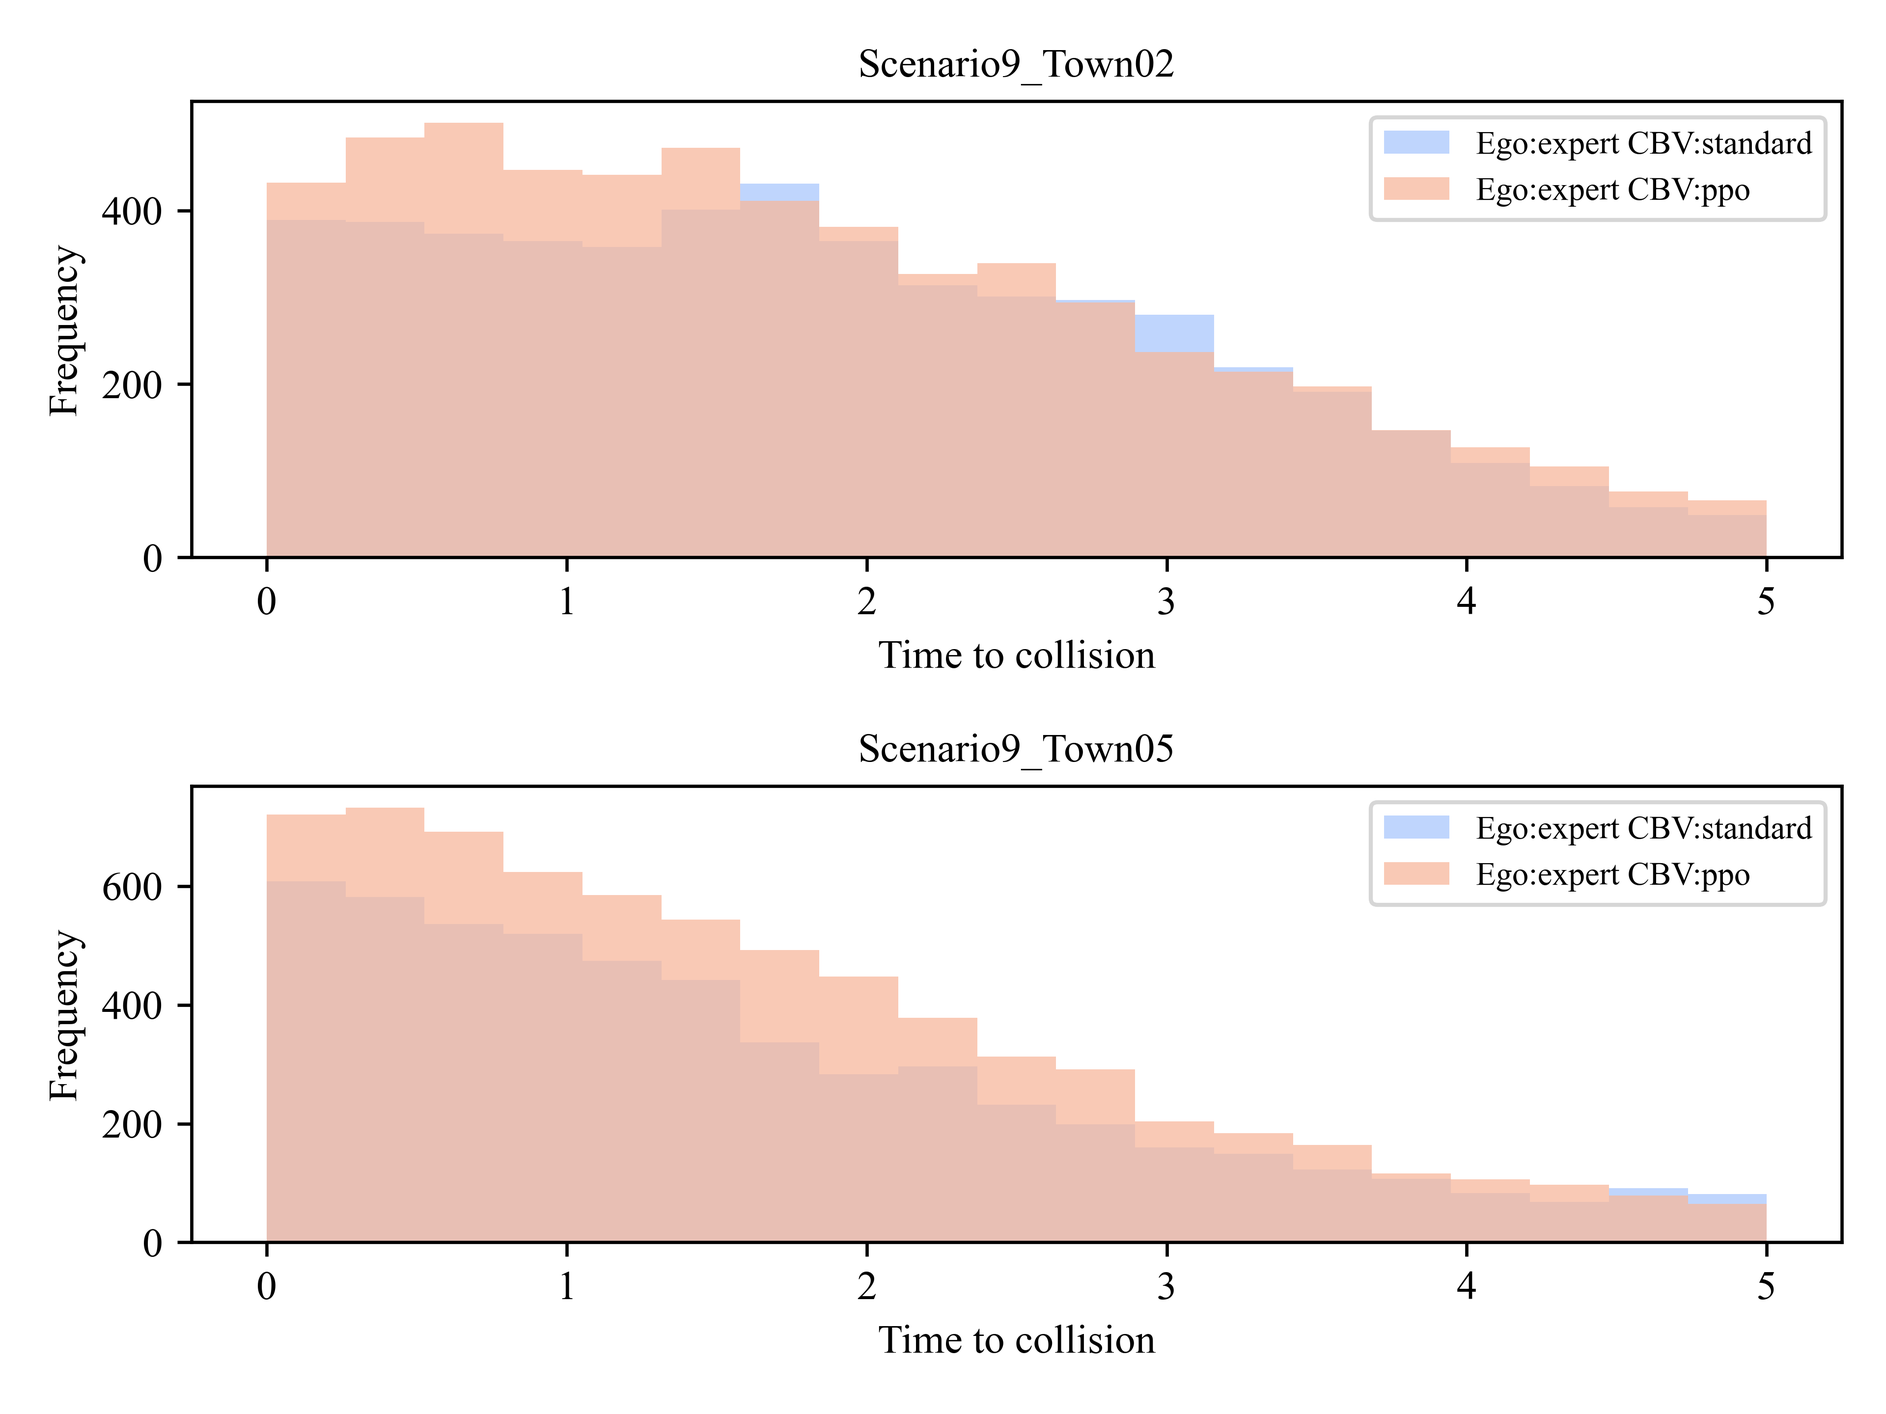
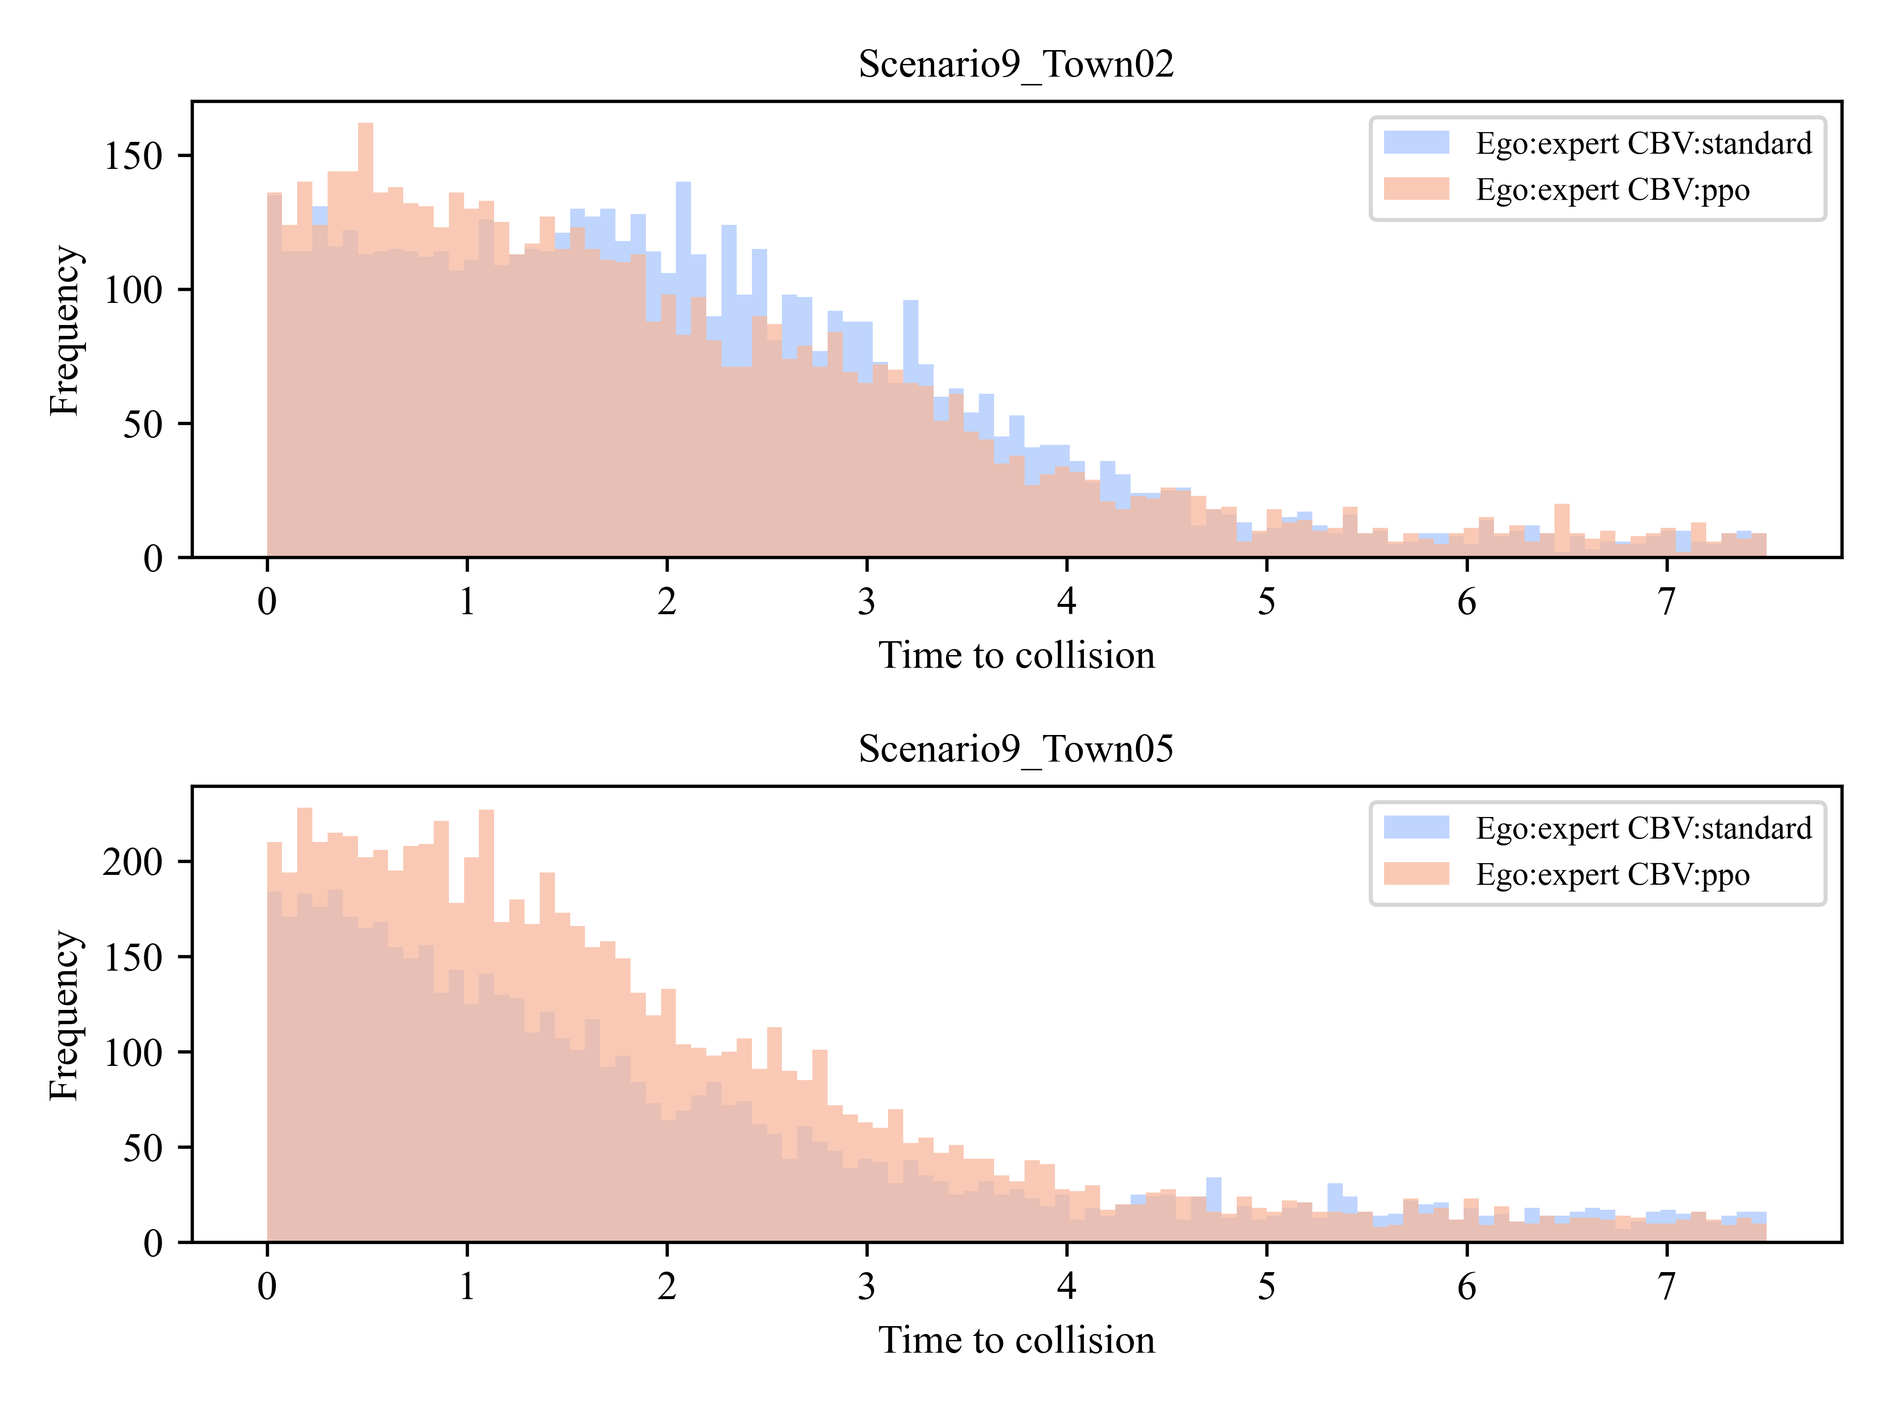
add collision impulse for eval

diff --git a/eval_analysis/plot_data/plot_evaluation_result.py b/eval_analysis/plot_data/plot_evaluation_result.py
@@ -76,6 +76,7 @@ def plot_metric(result, name):
             print(f">> {algorithm} in {scenario_name}: {percentage}")
     print('>> ' + '-' * 20, str(name), '-' * 20)
 
+
 def main(args):
     ROOT_DIR = args.ROOT_DIR
     base_dir = osp.join(ROOT_DIR, 'eval_analysis/processed_data')
@@ -87,61 +88,65 @@ def main(args):
     TTC_data = {}
     feasibility_data = {}
     unfeasible_rate = {}
-    collision = {}
+    collision_rate = {}
+    collision_impulse = {}
 
     for algorithm in algorithm_files:
-        split_name = algorithm.split('_')
-        ego = split_name.pop(0)
-        seed = split_name.pop(-1)
-        select = split_name.pop(-1)
-        cbv = '_'.join(split_name) if len(split_name) > 1 else split_name[0]
-        algorithm_path = osp.join(base_dir, algorithm)
-        if osp.isdir(algorithm_path):
-            scenario_map_files = os.listdir(algorithm_path)
-            # the specific ego and CBV method
-            algorithm_title = f"Ego:{ego} CBV:{cbv}"
+        if osp.isdir(osp.join(base_dir, algorithm)):
+            split_name = algorithm.split('_')
+            ego = split_name.pop(0)
+            seed = split_name.pop(-1)
+            select = split_name.pop(-1)
+            cbv = '_'.join(split_name) if len(split_name) > 1 else split_name[0]
+            algorithm_path = osp.join(base_dir, algorithm)
+            if osp.isdir(algorithm_path):
+                scenario_map_files = os.listdir(algorithm_path)
+                # the specific ego and CBV method
+                algorithm_title = f"Ego:{ego} CBV:{cbv}"
 
-            PET_data[algorithm_title] = {}
-            ego_min_dis_data[algorithm_title] = {}
-            near_rate[algorithm_title] = {}
-            BVs_forward_speed_data[algorithm_title] = {}
-            TTC_data[algorithm_title] = {}
-            feasibility_data[algorithm_title] = {}
-            unfeasible_rate[algorithm_title] = {}
-            collision[algorithm_title] = {}
+                PET_data[algorithm_title] = {}
+                ego_min_dis_data[algorithm_title] = {}
+                near_rate[algorithm_title] = {}
+                BVs_forward_speed_data[algorithm_title] = {}
+                TTC_data[algorithm_title] = {}
+                feasibility_data[algorithm_title] = {}
+                unfeasible_rate[algorithm_title] = {}
+                collision_rate[algorithm_title] = {}
+                collision_impulse[algorithm_title] = {}
 
-            for scenario_map in scenario_map_files:
-                scenario_map_path = osp.join(algorithm_path, scenario_map)
-                if osp.isdir(scenario_map_path):
-                    files = os.listdir(scenario_map_path)
-                    for file in files:
-                        # processing PET data
-                        if file == 'PET.npy' and 'PET' in args.data:
-                            file_path = os.path.join(scenario_map_path, file)
-                            PET_data[algorithm_title][scenario_map] = np.load(file_path)
-                        if file == 'Ego_min_dis.pkl' and 'Ego_min_dis' in args.data:
-                            file_path = os.path.join(scenario_map_path, file)
-                            with open(file_path, 'rb') as pickle_file:
-                                all_ego_min_dis_data = pickle.load(pickle_file)
-                            ego_min_dis_data[algorithm_title][scenario_map] = all_ego_min_dis_data['ego_min_dis']
-                            near_rate[algorithm_title][scenario_map] = all_ego_min_dis_data['near_rate']
-                        if file == 'BVs_forward_speed.npy' and 'BVs_forward_speed' in args.data:
-                            file_path = os.path.join(scenario_map_path, file)
-                            BVs_forward_speed_data[algorithm_title][scenario_map] = np.load(file_path)
-                        if file == 'TTC.npy' and 'TTC' in args.data:
-                            file_path = os.path.join(scenario_map_path, file)
-                            TTC_data[algorithm_title][scenario_map] = np.load(file_path)
-                        if file == 'Feasibility.pkl' and 'Feasibility' in args.data:
-                            file_path = os.path.join(scenario_map_path, file)
-                            with open(file_path, 'rb') as pickle_file:
-                                all_feasibility_data = pickle.load(pickle_file)
-                            feasibility_data[algorithm_title][scenario_map] = all_feasibility_data['feasibility_value']
-                            unfeasible_rate[algorithm_title][scenario_map] = all_feasibility_data['unfeasible_rate']
-                        if file == 'Collision.pkl' and 'Collision' in args.data:
-                            file_path = os.path.join(scenario_map_path, file)
-                            with open(file_path, 'rb') as pickle_file:
-                                all_collision_data = pickle.load(pickle_file)
-                            collision[algorithm_title][scenario_map] = all_collision_data['collision_rate']
+                for scenario_map in scenario_map_files:
+                    scenario_map_path = osp.join(algorithm_path, scenario_map)
+                    if osp.isdir(scenario_map_path):
+                        files = os.listdir(scenario_map_path)
+                        for file in files:
+                            # processing PET data
+                            if file == 'PET.npy' and 'PET' in args.data:
+                                file_path = os.path.join(scenario_map_path, file)
+                                PET_data[algorithm_title][scenario_map] = np.load(file_path)
+                            if file == 'Ego_min_dis.pkl' and 'Ego_min_dis' in args.data:
+                                file_path = os.path.join(scenario_map_path, file)
+                                with open(file_path, 'rb') as pickle_file:
+                                    all_ego_min_dis_data = pickle.load(pickle_file)
+                                ego_min_dis_data[algorithm_title][scenario_map] = all_ego_min_dis_data['ego_min_dis']
+                                near_rate[algorithm_title][scenario_map] = all_ego_min_dis_data['near_rate']
+                            if file == 'BVs_forward_speed.npy' and 'BVs_forward_speed' in args.data:
+                                file_path = os.path.join(scenario_map_path, file)
+                                BVs_forward_speed_data[algorithm_title][scenario_map] = np.load(file_path)
+                            if file == 'TTC.npy' and 'TTC' in args.data:
+                                file_path = os.path.join(scenario_map_path, file)
+                                TTC_data[algorithm_title][scenario_map] = np.load(file_path)
+                            if file == 'Feasibility.pkl' and 'Feasibility' in args.data:
+                                file_path = os.path.join(scenario_map_path, file)
+                                with open(file_path, 'rb') as pickle_file:
+                                    all_feasibility_data = pickle.load(pickle_file)
+                                feasibility_data[algorithm_title][scenario_map] = all_feasibility_data['feasibility_value']
+                                unfeasible_rate[algorithm_title][scenario_map] = all_feasibility_data['unfeasible_rate']
+                            if file == 'Collision.pkl' and 'Collision' in args.data:
+                                file_path = os.path.join(scenario_map_path, file)
+                                with open(file_path, 'rb') as pickle_file:
+                                    all_collision_data = pickle.load(pickle_file)
+                                collision_rate[algorithm_title][scenario_map] = all_collision_data['collision_rate']
+                                collision_impulse[algorithm_title][scenario_map] = all_collision_data['collision_impulse']
 
     # draw PET data
     if 'PET' in args.data:
@@ -158,14 +163,16 @@ def main(args):
         draw_data(BVs_forward_speed_data, 'BV forward Speed', ROOT_DIR, bins=BVs_forward_speed_bins)
     # draw TTC
     if 'TTC' in args.data:
-        TTC_bins = np.linspace(0, 5, 20)
+        TTC_bins = np.linspace(0, 7.5, 100)
         draw_data(TTC_data, 'Time to collision', ROOT_DIR, bins=TTC_bins)
     if 'Feasibility' in args.data:
         plot_metric(unfeasible_rate, 'unfeasible_rate')
         feasibility_bins = np.linspace(-4, 5, 15)
         draw_data(feasibility_data, 'Feasibility Value', ROOT_DIR, bins=feasibility_bins)
     if 'Collision' in args.data:
-        plot_metric(collision, 'collision_rate')
+        plot_metric(collision_rate, 'collision_rate')
+        collision_impulse_bins = np.linspace(0, 20, 20)
+        draw_data(collision_impulse, 'Collision_impulse', ROOT_DIR, bins=collision_impulse_bins)
 
 
 if __name__ == '__main__':

diff --git a/eval_analysis/process_data/common.py b/eval_analysis/process_data/common.py
@@ -19,6 +19,7 @@ from safebench.scenario.scenario_definition.atomic_criteria import Status
 def process_collision_from_one_pkl(pkl_path, algorithm, save_folder):
     data = joblib.load(pkl_path)
     collision = {}
+    collision_impulse = []
     if 'standard' in algorithm:
         # rule-based scenario agent
         num_collision = 0
@@ -26,7 +27,11 @@ def process_collision_from_one_pkl(pkl_path, algorithm, save_folder):
             for step in sequence:  # count all the collision event along the trajectory
                 if step['collision'][0] == Status.FAILURE:
                     num_collision += 1
+                    if step['collision'][2] is not None:
+                        step_collision_impulse = step['collision'][2]
+                        collision_impulse.append(np.sqrt(np.sum(np.square(np.array(step_collision_impulse) / 1000))))  # kN*s
         collision['collision_rate'] = num_collision / len(data)
+        collision['collision_impulse'] = collision_impulse
     else:
         # learnable scenario agent
         num_collision = 0
@@ -36,13 +41,18 @@ def process_collision_from_one_pkl(pkl_path, algorithm, save_folder):
             all_count = Counter()
 
             for step in sequence:
-                collision_count.update({k: 1 for k, v in step['CBVs_collision'].items() if v})
-                all_count.update(step['CBVs_collision'].keys())
+                for CBV_id, collision_event in step['CBVs_collision'].items():
+                    if collision_event is not None:
+                        collision_count[CBV_id] += 1
+                        step_collision_impulse = collision_event['normal_impulse']
+                        collision_impulse.append(np.sqrt(np.sum(np.square(np.array(step_collision_impulse) / 1000))))  # kN*s
+                    all_count[CBV_id] += 1
 
             num_collision += len(collision_count)
             collision_attacker += len(all_count)
 
         collision['collision_rate'] = num_collision / collision_attacker
+        collision['collision_impulse'] = collision_impulse
     # save BVs forward speed
     with open(osp.join(save_folder, "Collision.pkl"), 'wb') as pickle_file:
         pickle.dump(collision, pickle_file)

diff --git a/eval_analysis/plot_data/plot_learning_curve.py b/eval_analysis/plot_data/plot_learning_curve.py
@@ -46,7 +46,9 @@ def extract_tb_data(path_to_events_file):
 
 
 def smooth(data, sm=1):
-    ''' 平滑数据 '''
+    """
+        smooth the input data
+    """
     if sm > 1:
         z = np.ones_like(data)
         y = np.ones(sm) * 1.0
@@ -56,7 +58,7 @@ def smooth(data, sm=1):
         return data
 
 
-def read_df(df_path):
+def read_df(df_path, label='Scenario_average_reward_per_step'):
     if os.path.exists(df_path):
         df = pd.read_csv(df_path)
         print('>> ' + '-' * 20, 'Reading learning curve data', '-' * 20)
@@ -73,7 +75,7 @@ def read_df(df_path):
                 scene = path_elements[-1]
                 seed = int(seed)
                 path_to_event_files = [os.path.join(root, f) for f in event_files]
-                combined_events_data = extract_and_combine_events(path_to_event_files, label='Scenario_average_reward_per_step')
+                combined_events_data = extract_and_combine_events(path_to_event_files, label=label)
                 for step, value in combined_events_data:
                     dataframes.append(pd.DataFrame({
                         'step': [step],
@@ -93,7 +95,7 @@ def read_df(df_path):
 def main(args):
     # read the learning curve data
     df_path = osp.join(args.ROOT_DIR, 'eval_analysis/processed_data/learning_curve.csv')
-    df = read_df(df_path)
+    df = read_df(df_path, args.label)
 
     sns.set(style="darkgrid")
 
@@ -141,6 +143,7 @@ if __name__ == '__main__':
     import argparse
     parser = argparse.ArgumentParser()
     parser.add_argument('--ROOT_DIR', type=str, default=osp.abspath(osp.dirname(osp.dirname(osp.dirname(osp.realpath(__file__))))))
+    parser.add_argument('--label', '-l', type=str, default='Scenario_average_reward_per_step', choices=['Scenario_episode_reward', 'Scenario_average_reward_per_step'])
     args = parser.parse_args()
 
     main(args)

diff --git a/safebench/scenario/scenario_definition/atomic_criteria.py b/safebench/scenario/scenario_definition/atomic_criteria.py
@@ -257,6 +257,7 @@ class CollisionTest(Criterion):
         self.other_actor_type = other_actor_type
         self.registered_collisions = []
         self.last_id = None
+        self.collision_impulse = None
         self.collision_time = None
 
     def update(self):
@@ -265,9 +266,11 @@ class CollisionTest(Criterion):
         """
         new_status = Status.RUNNING
         collision_vehicle_id = None
+        collision_normal_impulse = None
         if self.test_status == "FAILURE":
             # remove the self.terminate_on_failure
             collision_vehicle_id = self.last_id
+            collision_normal_impulse = [self.collision_impulse.x, self.collision_impulse.y, self.collision_impulse.z]
             new_status = Status.FAILURE
             self.test_status = "RUNNING"  # refresh the status
 
@@ -288,7 +291,7 @@ class CollisionTest(Criterion):
         if self.last_id and GameTime.get_time() - self.collision_time > self.MAX_ID_TIME:
             self.last_id = None
 
-        return new_status, collision_vehicle_id
+        return new_status, collision_vehicle_id, collision_normal_impulse
 
     def terminate(self):
         """
@@ -376,6 +379,7 @@ class CollisionTest(Criterion):
         # Number 0: static objects -> ignore it
         if event.other_actor.id != 0:
             self.last_id = event.other_actor.id
+            self.collision_impulse = event.normal_impulse
 
 
 class ActorSpeedAboveThresholdTest(Criterion):

diff --git a/safebench/gym_carla/envs/carla_env.py b/safebench/gym_carla/envs/carla_env.py
@@ -184,7 +184,10 @@ class CarlaEnv(gym.Env):
         def count_collisions(event):
             self_strongref = self_weakref()
             if self_strongref is not None:
-                self_strongref.CBVs_collision[event.actor.id] = event.other_actor
+                self_strongref.CBVs_collision[event.actor.id] = {
+                    'other_actor_id': event.other_actor.id,
+                    'normal_impulse': [event.normal_impulse.x, event.normal_impulse.y, event.normal_impulse.z]
+                }
 
         collision_sensor.listen(lambda event: count_collisions(event))
 
@@ -703,8 +706,8 @@ class CarlaEnv(gym.Env):
         else:
             # if the ego collision detector didn't detect the collision, need to use CBV collision detector
             self.ego_collide = False
-            for collision_actor in self.CBVs_collision.values():
-                if collision_actor is not None and collision_actor.id == self.ego_vehicle.id:
+            for collision_event in self.CBVs_collision.values():
+                if collision_event is not None and collision_event['other_actor_id'] == self.ego_vehicle.id:
                     self.ego_collide = True
                     break
 

diff --git a/safebench/gym_carla/envs/utils.py b/safebench/gym_carla/envs/utils.py
@@ -97,9 +97,15 @@ def get_BVs_record(ego, CBVs_collision, ego_nearby_vehicles, search_radius=25, b
     }
     if len(CBVs_collision) > 0:
         collision = {}
-        for CBV_id, collision_actor in CBVs_collision.items():
+        for CBV_id, collision_event in CBVs_collision.items():
             # only record the collision between CBV and ego
-            collision[CBV_id] = True if collision_actor is not None and collision_actor.id == ego.id else False
+            if collision_event is not None:
+                collision[CBV_id] = {
+                    'other_actor_id': collision_event['other_actor_id'],
+                    'normal_impulse': collision_event['normal_impulse']
+                }
+            else:
+                collision[CBV_id] = None
         BVs_record['CBVs_collision'] = collision
 
     # BVs info from ego's view
@@ -481,6 +487,7 @@ def get_CBV_candidates(ego_vehicle, goal_waypoint, CBV_reach_goal, search_radius
         del candidates[key]
 
     return list(candidates.values())
+
 
 def get_min_distance_across_bboxes(veh1, veh2):
     veh1_bbox = veh1.bounding_box

diff --git a/eval_analysis/process_data/TTC.py b/eval_analysis/process_data/TTC.py
@@ -32,7 +32,7 @@ def get_onestep_ttc(ego_loc, ego_vel, BV_loc, BV_vel):
     magnitude_squared = v_rel_x ** 2 + v_rel_y ** 2
 
     # Prevent division by zero
-    if magnitude_squared == 0 and dot_product >= 0:
+    if magnitude_squared == 0:
         return None
 
     # Calculate TTC
@@ -52,7 +52,7 @@ def get_sequence_ttc(sequence):
         assert len(BVs_vel) == len(BVs_loc), 'length of BVs info should be the same'
         for i in range(len(BVs_vel)):
             ttc = get_onestep_ttc(ego_loc, ego_vel, BVs_loc[i], BVs_vel[i])
-            ttc_list.append(ttc) if ttc is not None and ttc <= 5 else None
+            ttc_list.append(ttc) if ttc is not None and ttc <= 10 else None
 
     return ttc_list
 
